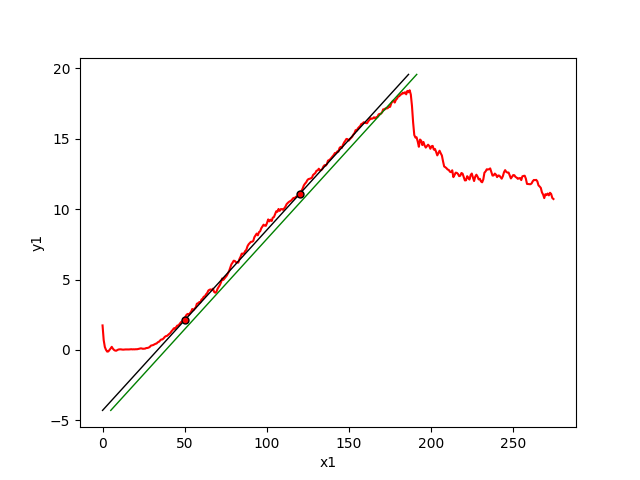
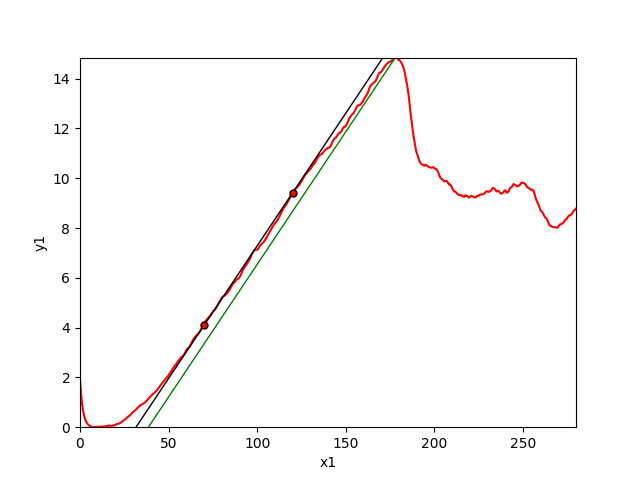
fixing the plotting filenames

diff --git a/plotting.py b/plotting.py
@@ -9,17 +9,21 @@ import matplotlib.pyplot as plt
 import numpy as np
 
 
-def plot_xy_data(result):
+def plot_xy_data(result, filename):
     """ This function generates a plot data points, stiffness slope, offset line """
 
     # Preparing for single plot
     fig = plt.figure()
     ax = fig.add_subplot(111)
 
+
     # Getting the xy data
     xy_data = result.xy_data
     x = xy_data[:, 0]
     y = xy_data[:, 1]
+
+    plt.ylim(0, max(y))
+    plt.xlim(0, max(x))
 
     # Plotting xy data
     ax.plot(x, y, 'r')
@@ -51,6 +55,6 @@ def plot_xy_data(result):
 
     ax.set_xlabel(result.x_title)
     ax.set_ylabel(result.y_title)
-    fig.savefig("plot1.png")
+    fig.savefig(filename + ".png")
 
     return ax

diff --git a/analysis.py b/analysis.py
@@ -90,7 +90,7 @@ def extract_xy_data(filename):
     headers_list = list(xy_data.columns.values)
 
     if len(headers_list) > 2:
-        print("ERROR: x-y data file contains more than two columns!")
+        print("ERROR: x-y data file contains more than two columns! Only first two columns are considered.")
 
     # The x-axis label and y-axis label are taken from the first rows of the xy data
     x_title = headers_list[0]

diff --git a/reportmaker.py b/reportmaker.py
@@ -7,8 +7,8 @@ Created on Thu Aug 29 15:57:28 2019
 """
 import plotting
 
-
 def make_full_report(list_results):
-    plot1 = plotting.plot_xy_data(list_results[0])
-
+    # Creating subsequent force displacement curves
+    for i in range(0, len(list_results)):
+        plotting.plot_xy_data(list_results[i], "plot" + str(i))
     return "done"

diff --git a/pyStaticA.py b/pyStaticA.py
@@ -29,7 +29,6 @@ if __name__ == "__main__":
         output_result = analysis.full_analysis(card)
         list_results.append(output_result)
 
-    print(list_results[0])
     # Step 3: Create a gorgeous report!
     # Generate the report based on result list
     reportmaker.make_full_report(list_results)
